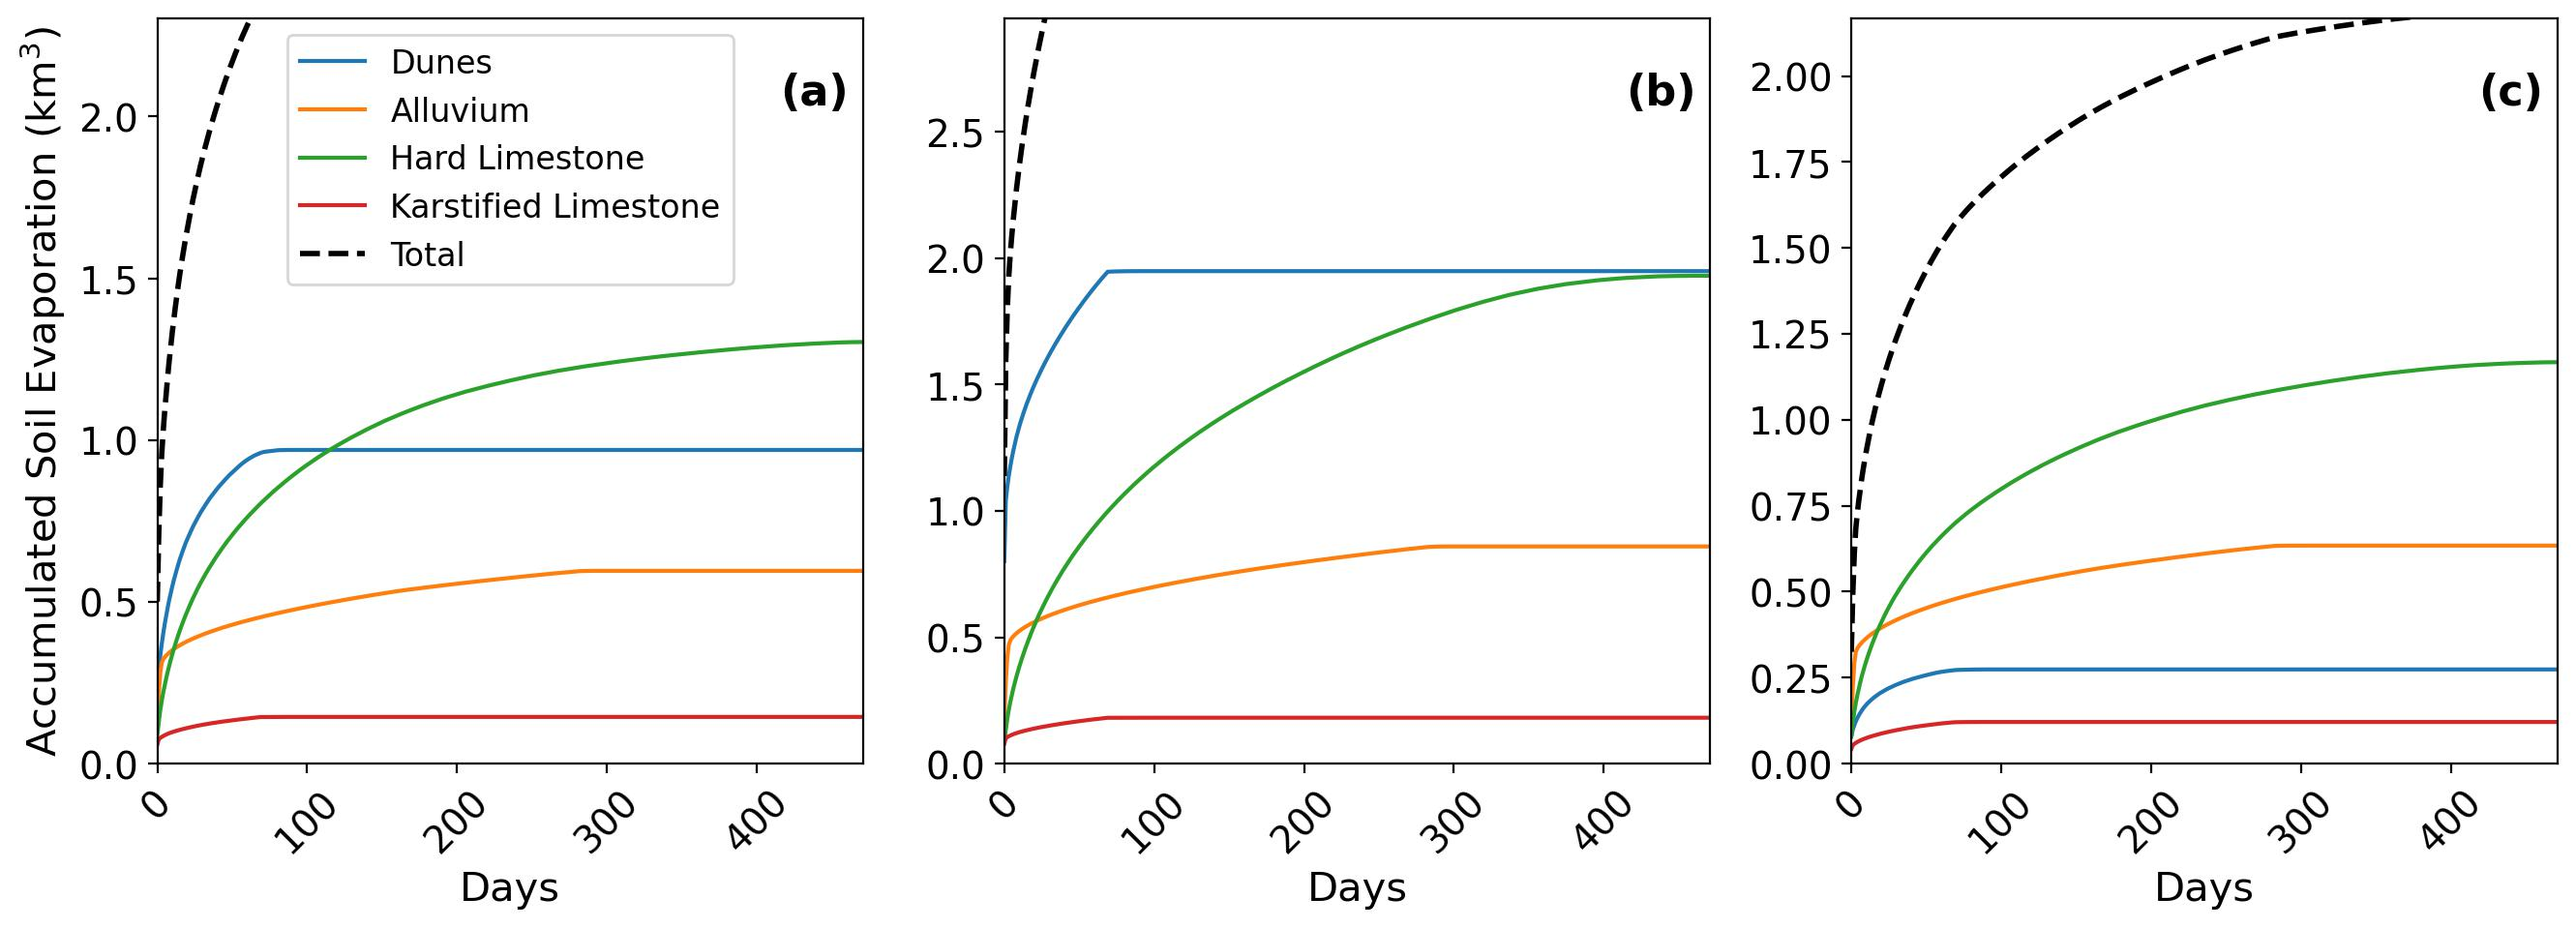
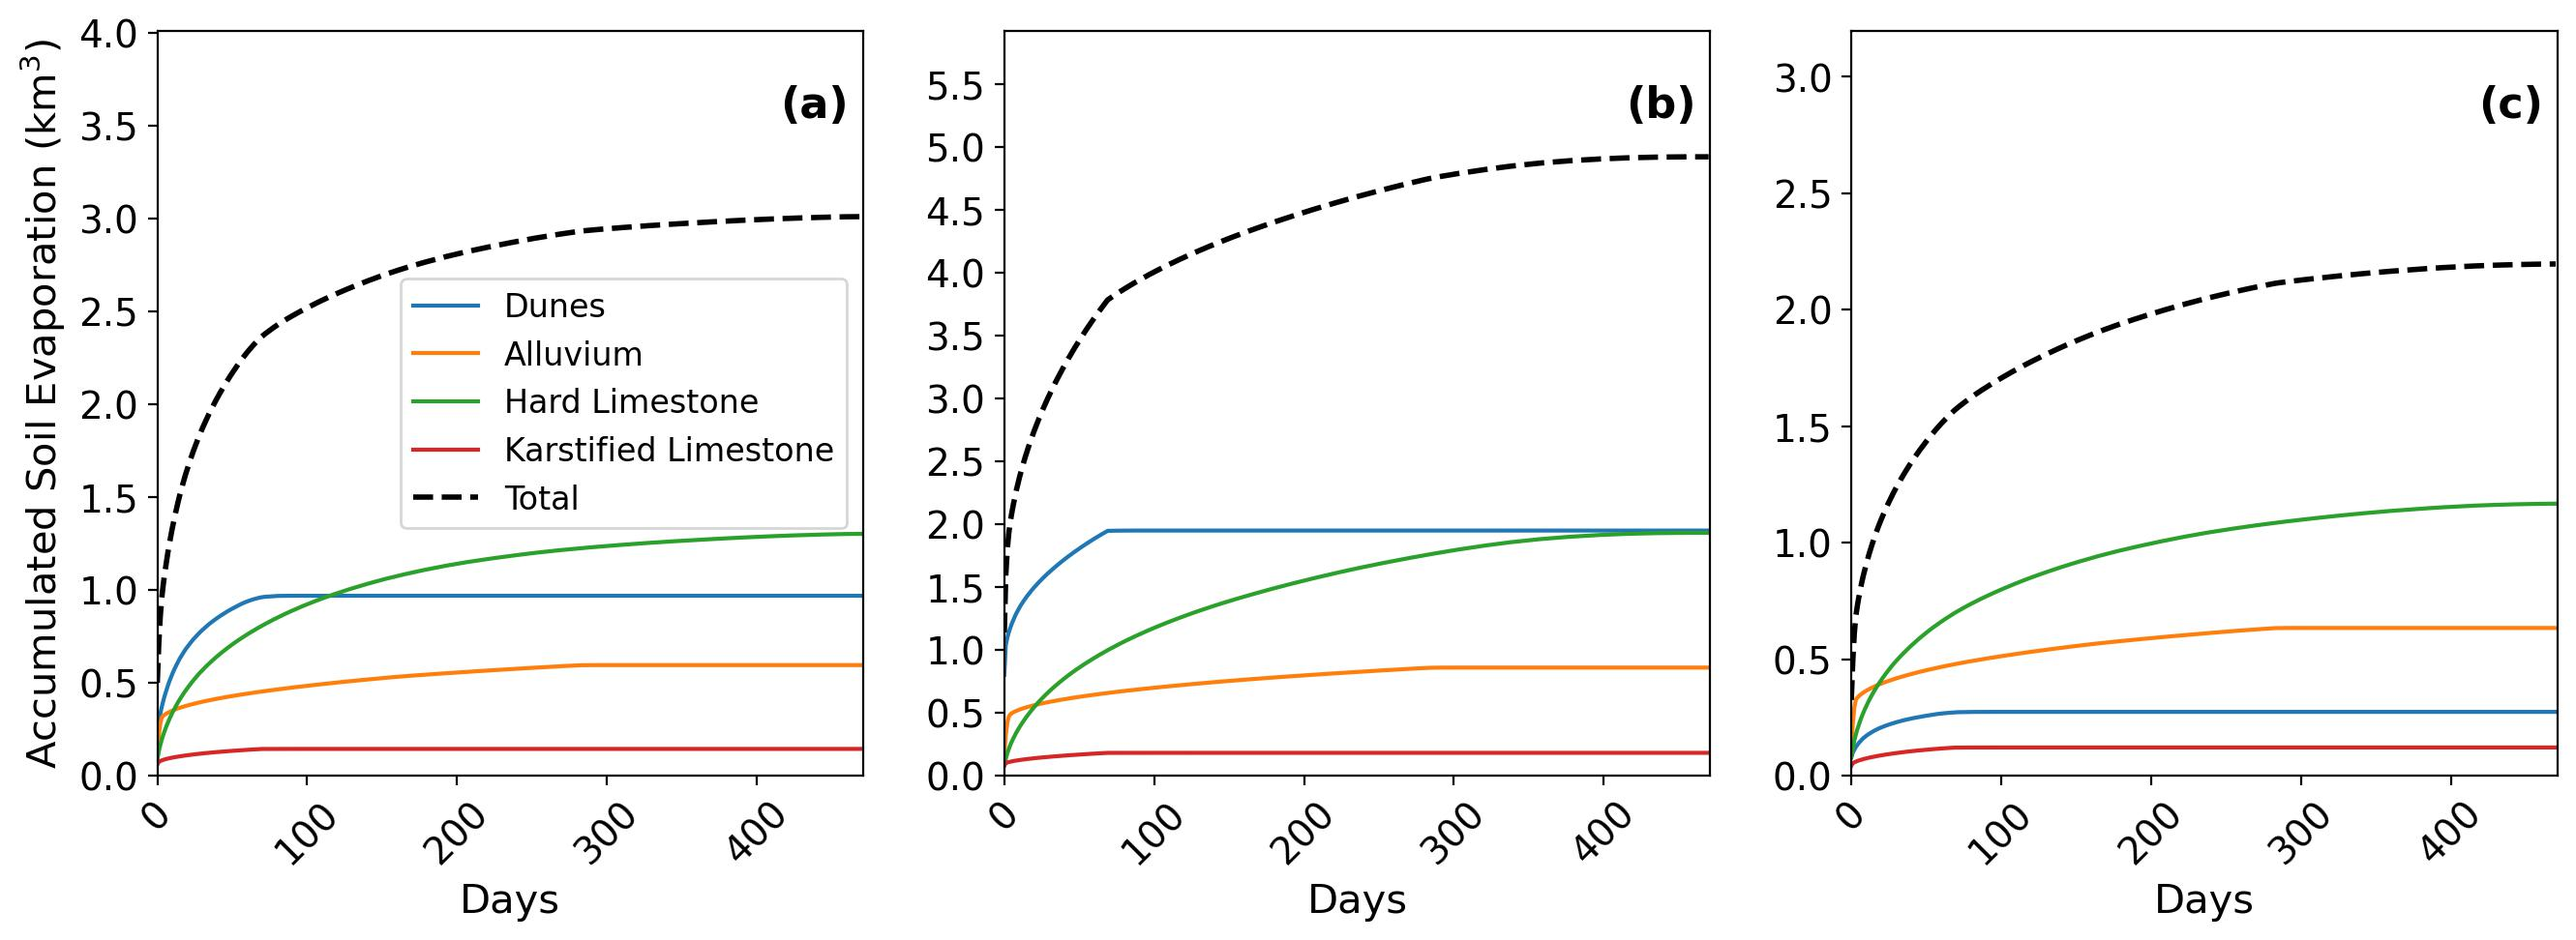
Fix plot y-limits from Total max and clarify notebook workflow.
Set y-axis to max(Total)+1 with 0.5 km³ ticks, add summary helpers,
refactor aggregation helper, and rewrite notebook as a thin 5-step guide.

diff --git a/src/sec_evaporation.py b/src/sec_evaporation.py
@@ -1,4 +1,10 @@
-"""Soil evaporation capacitance (SEC) model utilities."""
+"""
+Soil evaporation capacitance (SEC) model utilities.
+
+Simulates post-infiltration soil evaporation (km³) through time (days) using the
+SEC framework of Or & Lehman (2019). Inputs are infiltration shapefiles (initial
+moisture ``s_mm``, polygon ``area_m2``) and soil hydraulic parameters from Excel.
+"""
 
 from __future__ import annotations
 
@@ -8,15 +14,17 @@ import geopandas as gpd
 import matplotlib.pyplot as plt
 import numpy as np
 import pandas as pd
+from matplotlib.ticker import MultipleLocator
 from tqdm.auto import tqdm
 
-# Stage-2 evaporation constants (Or & Lehman 2019 appendix workflow)
-VAP_JUMP = 10
-E2 = 1
+# Stage-2 evaporation constants from the Or & Lehman (2019) appendix workflow.
+VAP_JUMP = 10  # vapour-pressure jump term in the stage-2 equation
+E2 = 1  # evaporation scaling factor in the stage-2 equation
 
-# Tropical-cyclone infiltration years in the shipped shapefiles
+# Tropical-cyclone years represented in data/Infiltration_output/.
 DEFAULT_YEARS = [2011, 2018, 2020]
 
+# Infiltration shapefiles shipped for each year (four soil classes).
 SHAPEFILE_TYPES = [
     "Dunes.shp",
     "Alluvium.shp",
@@ -24,6 +32,8 @@ SHAPEFILE_TYPES = [
     "Karstified Limestone.shp",
 ]
 
+# Maps each infiltration soil class to its SEC parameter row in soil_param.xlsx.
+# Dunes and karstified limestone share USMo1; alluvium uses USMo7; hard limestone USDk1.
 SOIL_TYPE_PARAM_MAP = {
     "dunes": "USMo1",
     "karstified_limestone": "USMo1",
@@ -33,7 +43,7 @@ SOIL_TYPE_PARAM_MAP = {
 
 
 def repo_root(start: Path | None = None) -> Path:
-    """Return repository root whether cwd is root or notebooks/."""
+    """Return repository root whether the working directory is root or notebooks/."""
     base = Path.cwd() if start is None else start
     if not (base / "data").exists() and (base.parent / "data").exists():
         base = base.parent
@@ -41,6 +51,7 @@ def repo_root(start: Path | None = None) -> Path:
 
 
 def load_soil_params(base_dir: Path | None = None) -> pd.DataFrame:
+    """Load SEC soil parameters (sheet ``code``) from data/soil_param.xlsx."""
     root = repo_root(base_dir)
     return pd.read_excel(root / "data" / "soil_param.xlsx", sheet_name="code")
 
@@ -49,21 +60,31 @@ def load_infiltration_gdfs(
     years: list[int] | None = None,
     base_dir: Path | None = None,
 ) -> dict[int, dict[str, gpd.GeoDataFrame]]:
+    """
+    Load post-infiltration moisture shapefiles for each TC year and soil type.
+
+    Returns
+    -------
+    dict
+        ``{year: {soil_type: GeoDataFrame}}`` with columns including ``s_mm`` and ``area_m2``.
+    """
     root = repo_root(base_dir)
     years = years or DEFAULT_YEARS
     shapefile_base = root / "data" / "Infiltration_output"
     gdfs: dict[int, dict[str, gpd.GeoDataFrame]] = {}
+
     for year in years:
         year_path = shapefile_base / str(year)
         gdfs[year] = {}
         for shapefile in SHAPEFILE_TYPES:
-            key = shapefile.split(".")[0].replace(" ", "_").lower()
-            gdfs[year][key] = gpd.read_file(year_path / shapefile)
+            soil_type = shapefile.split(".")[0].replace(" ", "_").lower()
+            gdfs[year][soil_type] = gpd.read_file(year_path / shapefile)
+
     return gdfs
 
 
 def calculate_k_eff(ks: float, alpha: float, h_crit: float, n: float, m: float) -> float:
-    """Effective hydraulic conductivity (mm/day)."""
+    """Effective hydraulic conductivity (mm/day) for stage-1 evaporation."""
     term = (1 + (alpha * h_crit) ** n) ** (-m)
     inner = 1 - (1 - (1 / (1 + (alpha * h_crit) ** n))) ** m
     k_eff = 4 * ks * np.sqrt(term) * inner**2
@@ -82,10 +103,10 @@ def simulate_soil_evaporation_volume(
     gdf : GeoDataFrame
         Must contain ``s_mm`` (initial moisture, mm) and ``area_m2``.
     param_row : Series
-        One row from the soil parameters table (``site`` column names output).
+        One row from the soil parameters table; output column is ``site``.
     """
     delta_theta = param_row["theta_crit"] - param_row["theta_res"] / 2
-    dfs: list[pd.DataFrame] = []
+    cell_results: list[pd.DataFrame] = []
 
     for cell_num, (s, area) in enumerate(
         tqdm(
@@ -101,8 +122,6 @@ def simulate_soil_evaporation_volume(
             s = theta * (param_row["lc"] * 1000)
         elif theta <= param_row["theta_res"]:
             continue
-        else:
-            s = s
 
         day = 0
         days2 = 0
@@ -170,27 +189,28 @@ def simulate_soil_evaporation_volume(
             theta = cum_s / (param_row["lc"] * 1000)
             es_list.append(cumulative_vol)
 
-        dfs.append(pd.DataFrame({cell_num: es_list}))
+        cell_results.append(pd.DataFrame({cell_num: es_list}))
 
-    if not dfs:
+    if not cell_results:
         return pd.DataFrame({param_row["site"]: []})
 
-    soil_evaporation_df = pd.concat(dfs, axis=1)
-    soil_evaporation_df_filled = soil_evaporation_df.ffill(axis=0)
-    sum_columns = soil_evaporation_df_filled.sum(axis=1)
-    return pd.DataFrame({param_row["site"]: sum_columns})
+    by_cell = pd.concat(cell_results, axis=1).ffill(axis=0)
+    return pd.DataFrame({param_row["site"]: by_cell.sum(axis=1)})
 
 
 def make_result_key(year: int, soil_type: str) -> str:
+    """Build a stable dictionary key for one year × soil-type simulation."""
     return f"{year}|{soil_type}"
 
 
 def parse_result_key(key: str) -> tuple[int, str]:
+    """Split a result key into ``(year, soil_type)``."""
     year_str, soil_type = key.split("|", 1)
     return int(year_str), soil_type
 
 
 def param_row_for_soil_type(soil_params: pd.DataFrame, soil_type: str) -> pd.Series:
+    """Return the SEC parameter row assigned to a given soil class."""
     site = SOIL_TYPE_PARAM_MAP[soil_type.lower()]
     match = soil_params.loc[soil_params["site"] == site]
     if match.empty:
@@ -203,22 +223,47 @@ def run_all_simulations(
     soil_params: pd.DataFrame,
     years: list[int] | None = None,
 ) -> dict[str, pd.DataFrame]:
+    """
+    Run SEC evaporation for every TC year and soil type.
+
+    Returns one time series per combination (typically 3 years × 4 soils = 12 entries).
+    """
     years = years or sorted(gdfs.keys())
     results: dict[str, pd.DataFrame] = {}
+
     for year in years:
         for soil_type, gdf in gdfs[year].items():
             param_row = param_row_for_soil_type(soil_params, soil_type)
             key = make_result_key(year, soil_type)
             results[key] = simulate_soil_evaporation_volume(gdf, param_row)
+
     return results
+
+
+def _align_and_sum_soil_types(year_data: dict[str, pd.DataFrame]) -> pd.DataFrame:
+    """
+    Align soil-type evaporation series to a common day index and sum to Total.
+
+    Shorter series are forward-filled to the longest length before summing.
+    """
+    max_length = max(df.shape[0] for df in year_data.values())
+    yearly = pd.DataFrame(index=range(max_length))
+
+    for soil_type, df in year_data.items():
+        if df.empty:
+            continue
+        aligned = df.reindex(range(max_length)).ffill()
+        yearly[soil_type] = aligned.iloc[:, 0]
+
+    yearly["Total"] = yearly.sum(axis=1)
+    return yearly
 
 
 def prepare_evaporation_data(results: dict[str, pd.DataFrame]) -> dict[int, pd.DataFrame]:
     """
-    Aggregate soil-type series by year.
+    Merge per-soil simulations into one table per TC year.
 
-    Columns with different simulation lengths are forward-filled to the longest
-    series before summing (same behavior as the original notebook).
+    Each yearly table has columns for the four soil types plus ``Total``.
     """
     processed: dict[int, pd.DataFrame] = {}
     years = sorted({parse_result_key(k)[0] for k in results})
@@ -229,22 +274,47 @@ def prepare_evaporation_data(results: dict[str, pd.DataFrame]) -> dict[int, pd.D
             for k, df in results.items()
             if parse_result_key(k)[0] == year
         }
-        if not year_data:
-            continue
-
-        max_length = max(df.shape[0] for df in year_data.values())
-        total_evap_df = pd.DataFrame(index=range(max_length))
-
-        for soil_type, df in year_data.items():
-            if df.empty:
-                continue
-            df_reindexed = df.reindex(range(max_length)).ffill()
-            total_evap_df[soil_type] = df_reindexed.iloc[:, 0]
-
-        total_evap_df["Total"] = total_evap_df.sum(axis=1)
-        processed[year] = total_evap_df
+        if year_data:
+            processed[year] = _align_and_sum_soil_types(year_data)
 
     return processed
+
+
+def summarize_simulation_runs(results: dict[str, pd.DataFrame]) -> pd.DataFrame:
+    """
+    Build a readable summary of all year × soil-type simulation outputs.
+
+    Useful for confirming that every expected combination ran successfully.
+    """
+    rows = []
+    for key, df in sorted(results.items()):
+        year, soil_type = parse_result_key(key)
+        final_km3 = float(df.iloc[-1, 0]) if len(df) else float("nan")
+        rows.append(
+            {
+                "year": year,
+                "soil_type": soil_type,
+                "param_site": SOIL_TYPE_PARAM_MAP.get(soil_type, ""),
+                "n_days": len(df),
+                "final_evaporation_km3": round(final_km3, 4),
+            }
+        )
+    return pd.DataFrame(rows)
+
+
+def summarize_yearly_totals(processed_data: dict[int, pd.DataFrame]) -> pd.DataFrame:
+    """Summarize final cumulative evaporation (Total column) for each TC year."""
+    rows = []
+    for year in sorted(processed_data):
+        df = processed_data[year]
+        rows.append(
+            {
+                "year": year,
+                "n_days": len(df),
+                "final_total_km3": round(float(df["Total"].iloc[-1]), 4),
+            }
+        )
+    return pd.DataFrame(rows)
 
 
 def plot_soil_evaporation(
@@ -252,6 +322,7 @@ def plot_soil_evaporation(
     save_path: Path | str | None = None,
     show: bool = True,
 ) -> plt.Figure:
+    """Plot accumulated evaporation by soil type and Total for each TC year."""
     years = sorted(processed_data.keys())
     labels = ["(a)", "(b)", "(c)"]
     fig, axes = plt.subplots(1, len(years), figsize=(16, 5), gridspec_kw={"wspace": 0.2})
@@ -271,8 +342,10 @@ def plot_soil_evaporation(
         ax.plot(df.index, df["Total"], label="Total", linestyle="--", linewidth=2, color="black")
         ax.set_xlabel("Days", fontsize=15)
         ax.set_xlim(0, len(df))
-        max_y_value = df[soil_cols].max().max()
-        ax.set_ylim(0, max_y_value + 1)
+
+        ymax = float(df["Total"].max())
+        ax.set_ylim(0, ymax + 1)
+        ax.yaxis.set_major_locator(MultipleLocator(0.5))
 
         if idx == 0:
             ax.set_ylabel("Accumulated Soil Evaporation (km$^3$)", fontsize=15)
